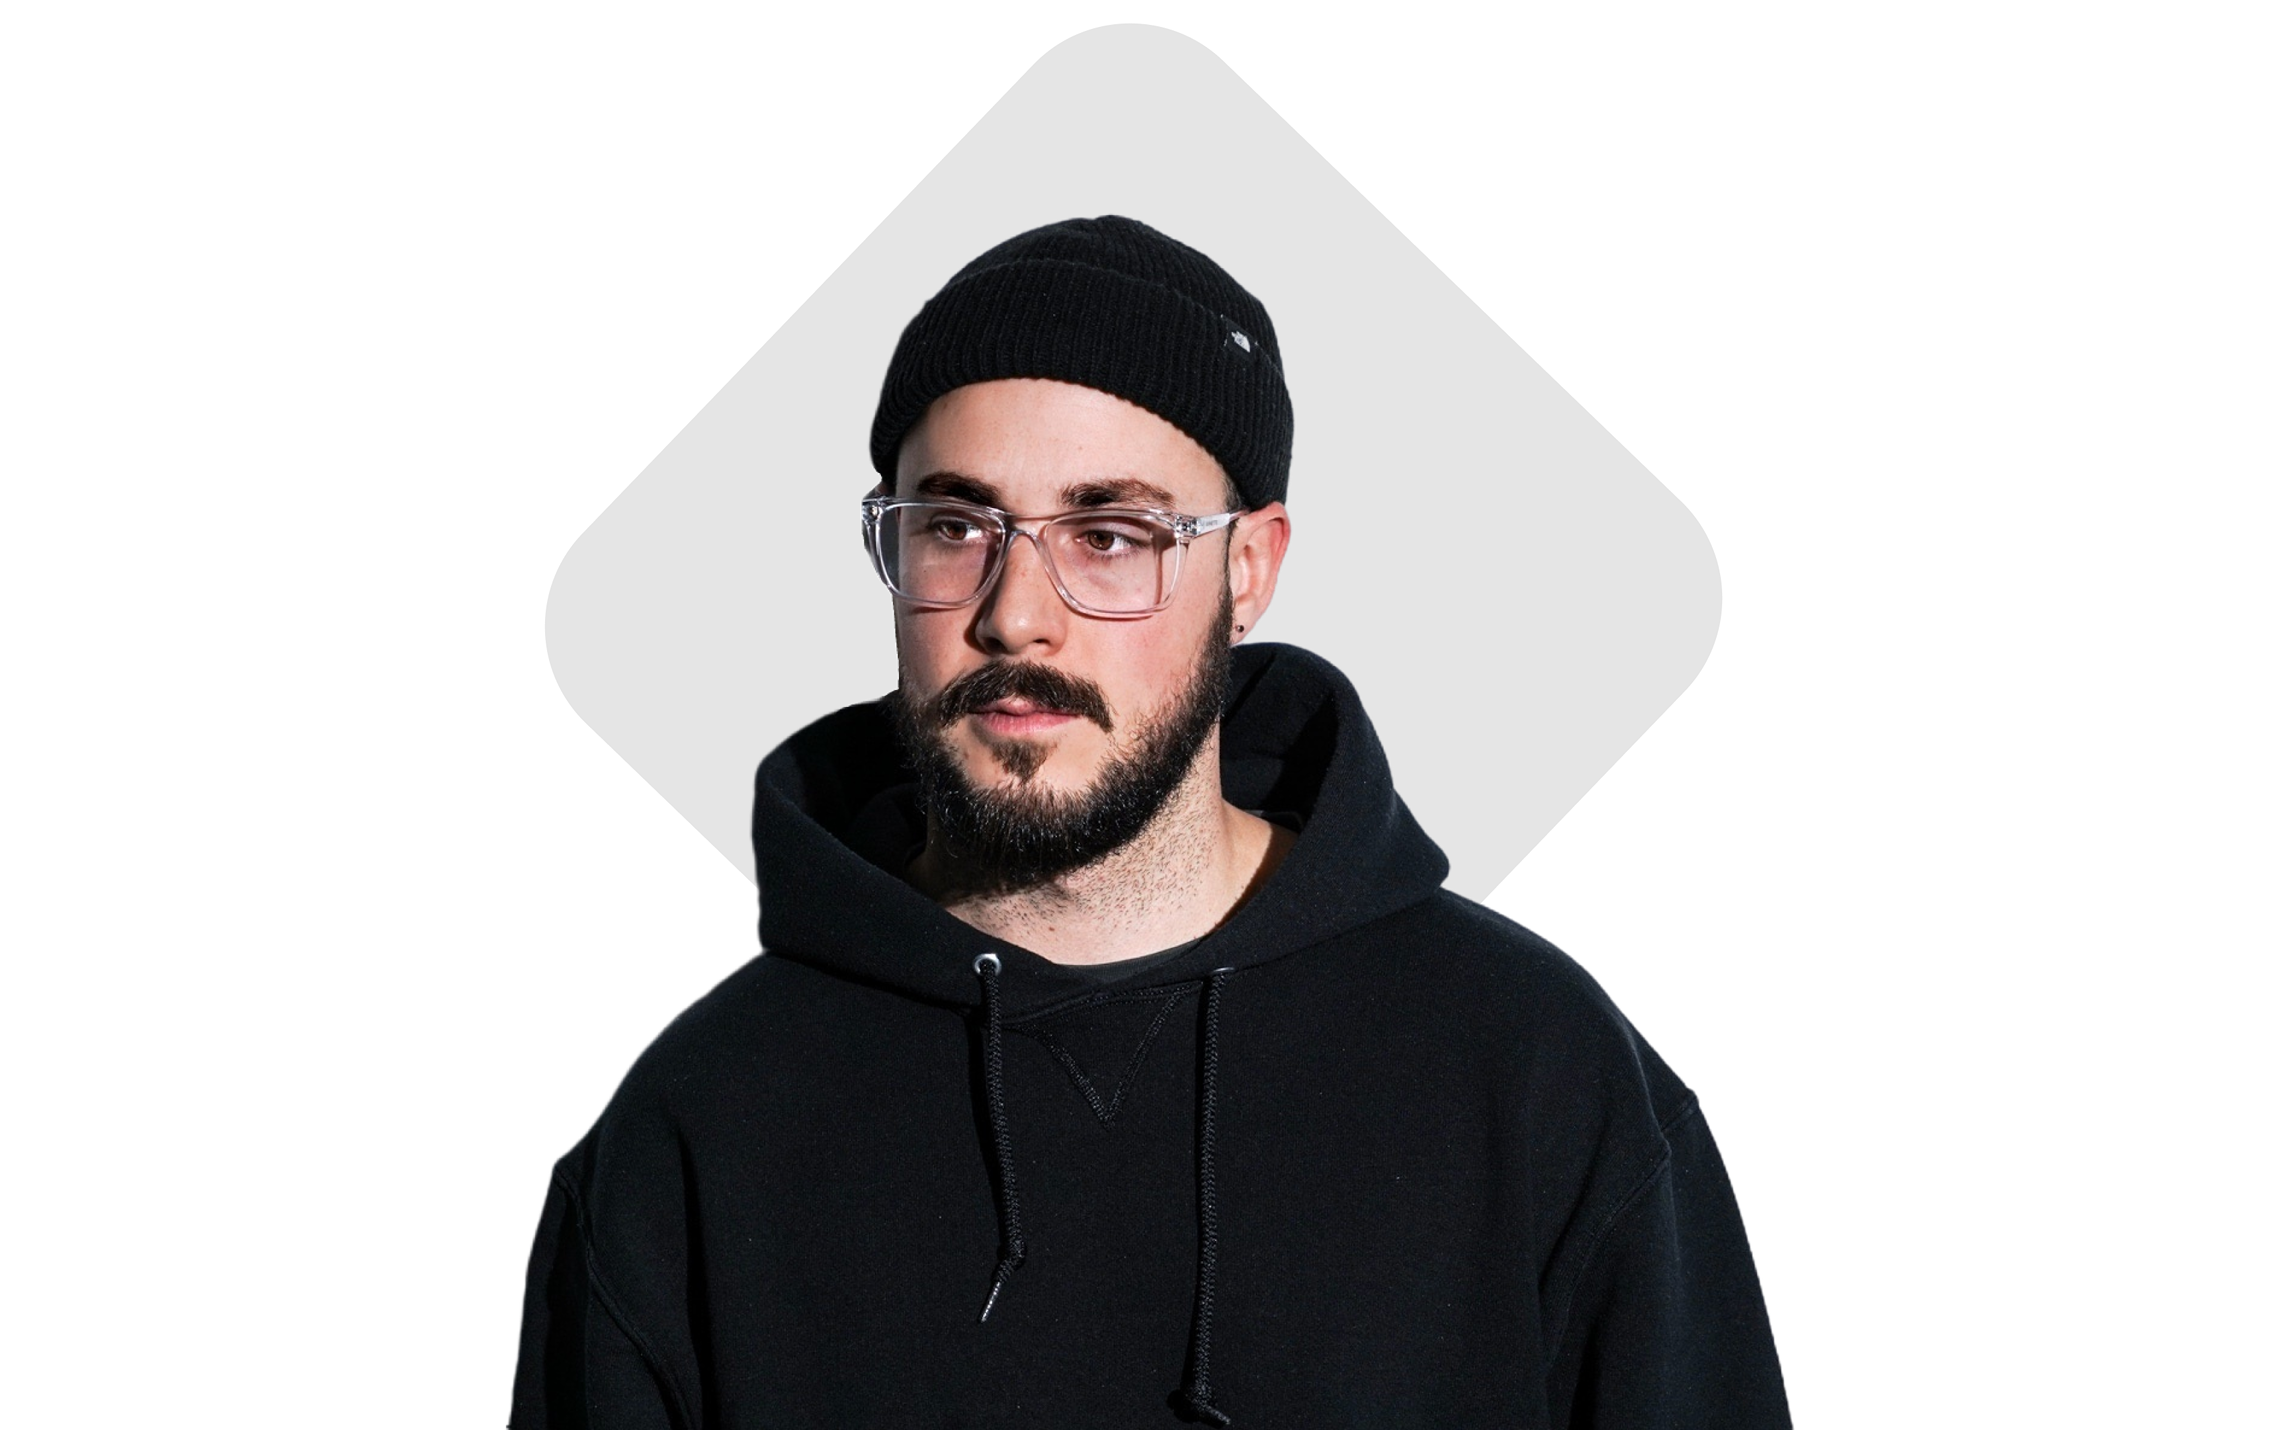
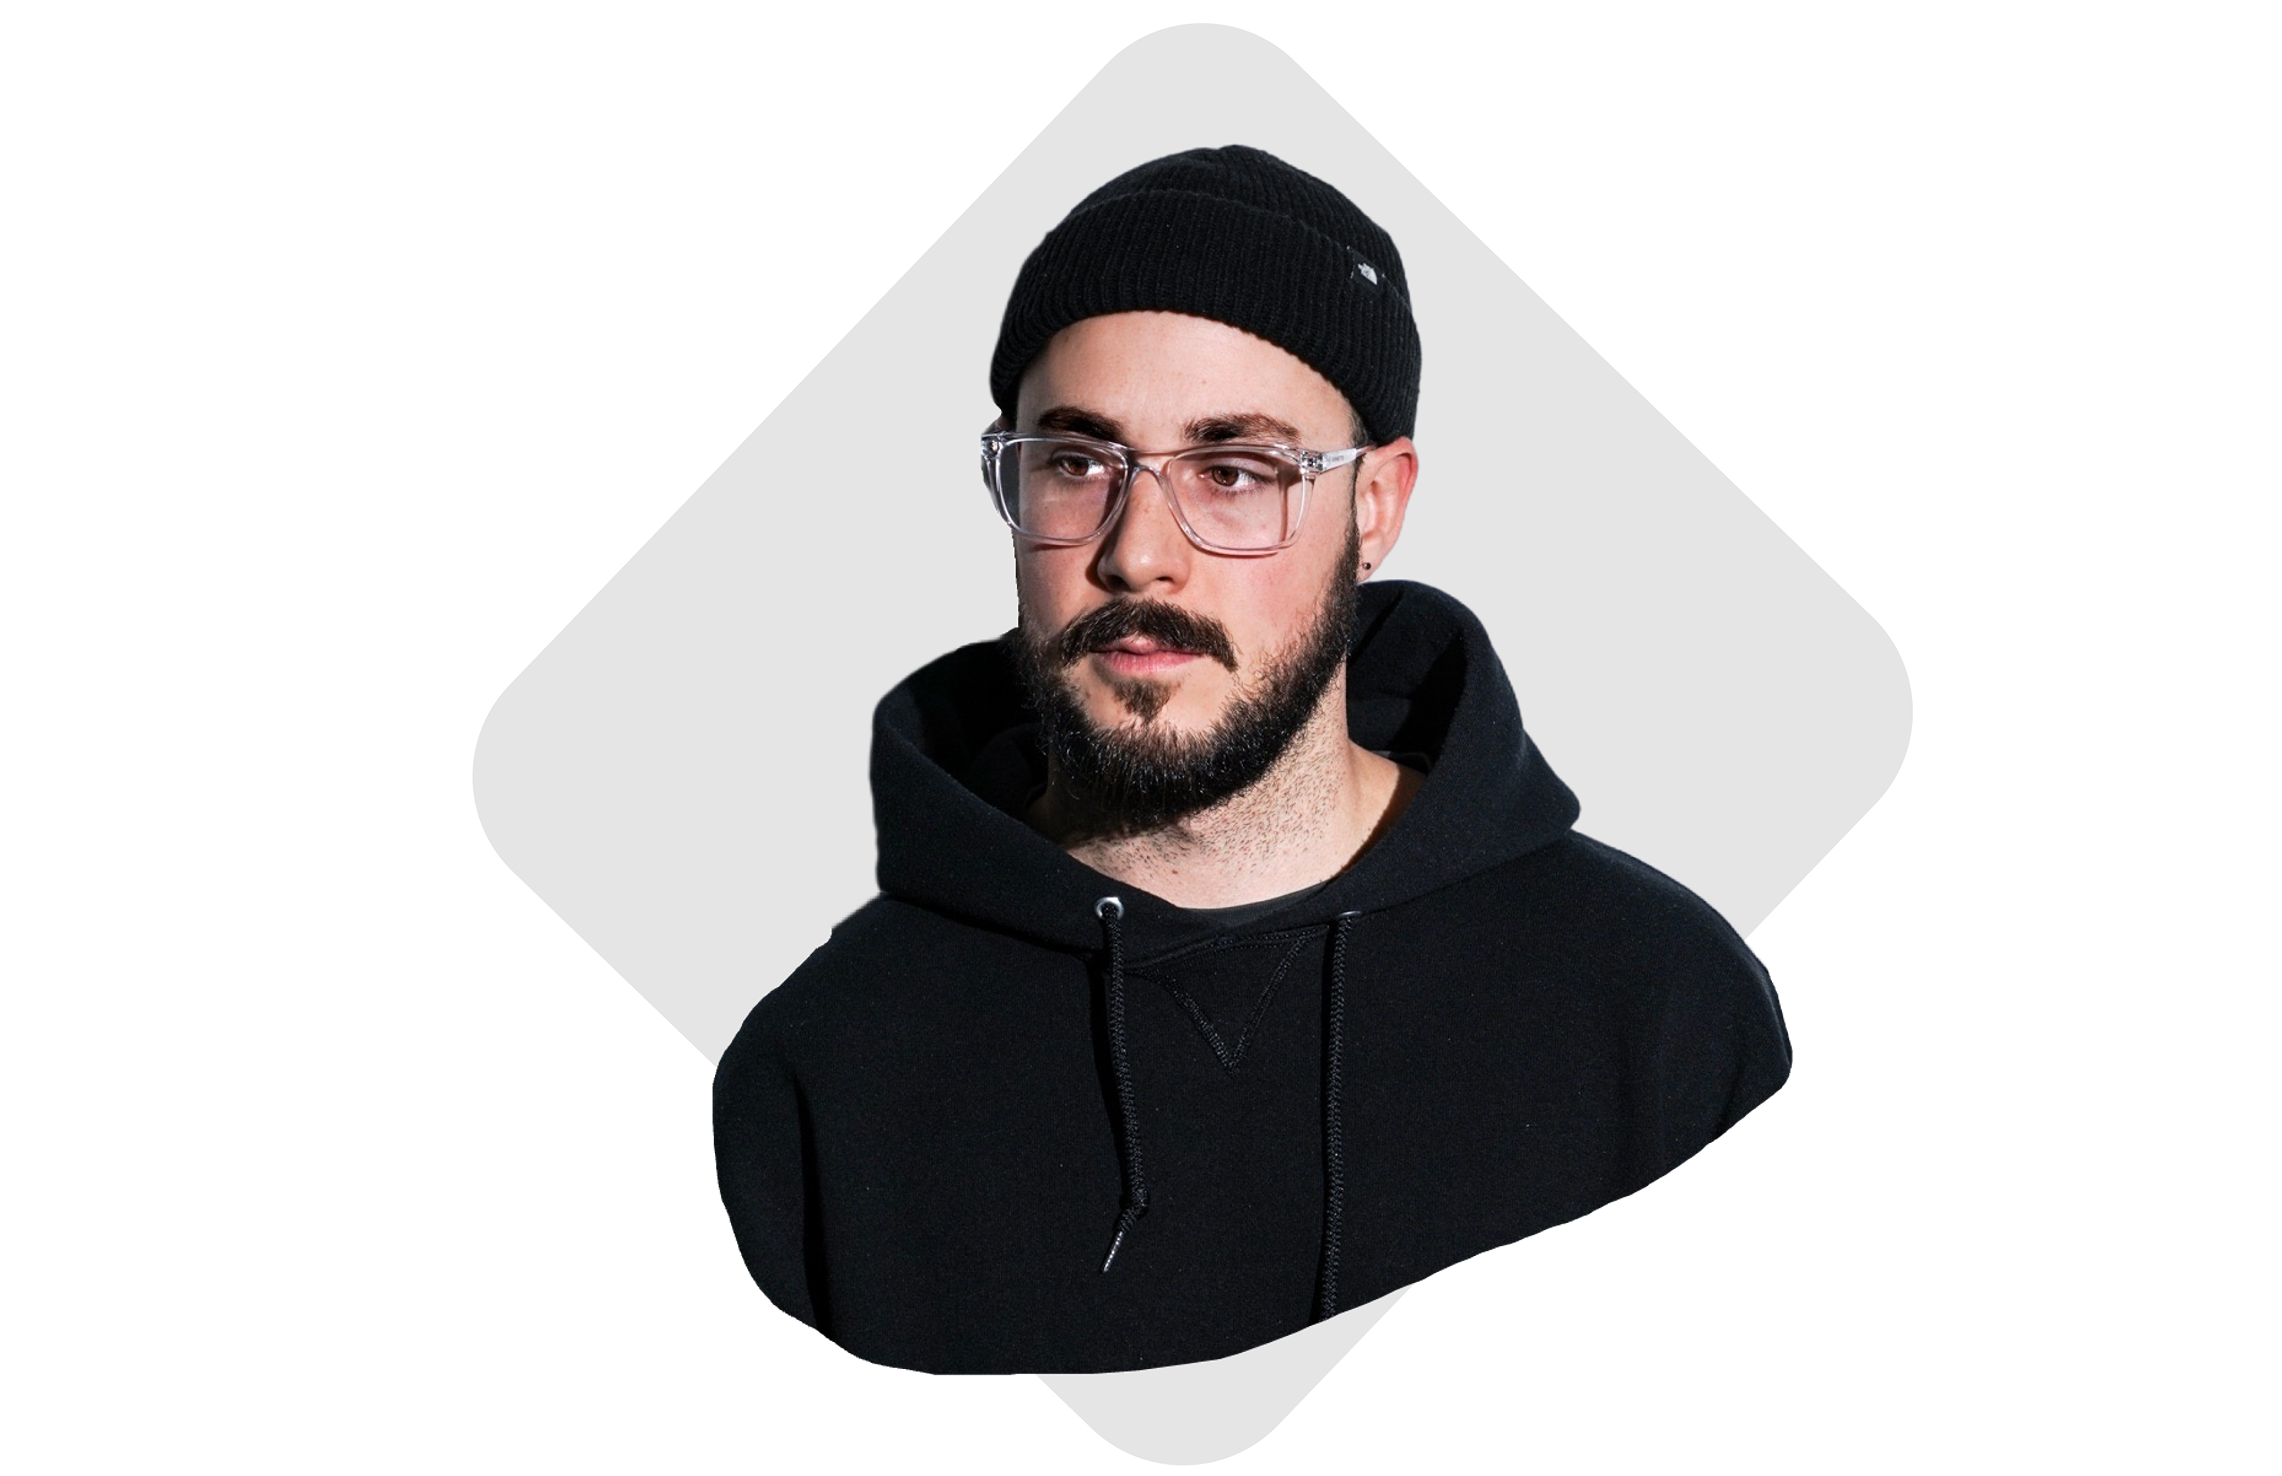
Refactor code structure for improved readability and maintainability

Changed region(s): [[0.1867, 0.0, 0.8401, 1.0], [0.4667, 0.7385, 0.4978, 0.7692]]

diff --git a/css/index.css b/css/index.css
@@ -93,15 +93,16 @@
 }
 
 /* Profile Image */
-.profile-image-container {
-    position: relative;
-}
 
-.profile-image {
+/* .profile-image-container {
+    position: relative;
+} */
+
+/* .profile-image {
     height: 65vh;
     width: auto;
     margin-top: -40px;
-}
+} */
 
 /* Media Queries */
 /* Styles for Medium Screens (834x1194= iPad Pro 11") */
@@ -142,13 +143,13 @@
     
     /* Profile Section */
     .profile-section {
-        height: 94vh; /* Reduced height for less whitespace */
+        height: 65vh; /* Reduced height for less whitespace */
     }
     
-    .profile-image {
+    /* .profile-image {
         height: 100vh;
         width: auto;
-    }
+    } */
 }
   
   /* Styles for Large Screens (1450x832= Macbook Air)*/
@@ -158,17 +159,19 @@
         display: flex;
         flex-direction: row;
         align-items: center;
+        align-items: center;
         background-color: var(--color-primary);
     }
     
     .welcome-section {
+        margin-left: 50px;
         margin-top: -65px;
     }
 
     .welcome-section > *:not(.button-group) {
-        max-width: 640px;
+        max-width: 700px;
         width: 100%;
-        margin-left: 60px; /* Pushes content away from left edge */
+        margin-left: 15px; /* Pushes content away from left edge */
     }
     
     .welcome-text {
@@ -195,12 +198,13 @@
     
     /* Profile Section */
     .profile-section {
-        height: 74vh;
+        height: 73vh;
     }
     
     .profile-image {
-        width: 959px;
-        height: 620px;
+        width: 835px;
+        height: 570px;
         margin-top: -40px;
+        margin-left: -70px;
     }
 }

diff --git a/index.html b/index.html
@@ -99,7 +99,7 @@
         </section>
     
         <!-- Profile Section -->
-        <section class="profile-section text-center position-relative" itemscope itemtype="https://schema.org/Person" aria-label="Profile Section">
+        <section class="profile-section text-center" itemscope itemtype="https://schema.org/Person" aria-label="Profile Section">
 
             <div class="profile-image-container">
                 
@@ -145,7 +145,7 @@
     </main>
    
     <!-- Footer Section -->    
-    <footer class="site-footer fixed-bottom" id="footerBottom" itemscope itemtype="https://schema.org/WPFooter" role="contentinfo" aria-label="Footer Section">
+    <footer class="site-footer  fixed-bottom" id="footerBottom" itemscope itemtype="https://schema.org/WPFooter" role="contentinfo" aria-label="Footer Section">
 
         <div class="container d-flex justify-content-between align-items-center px-4 py-3">
 
